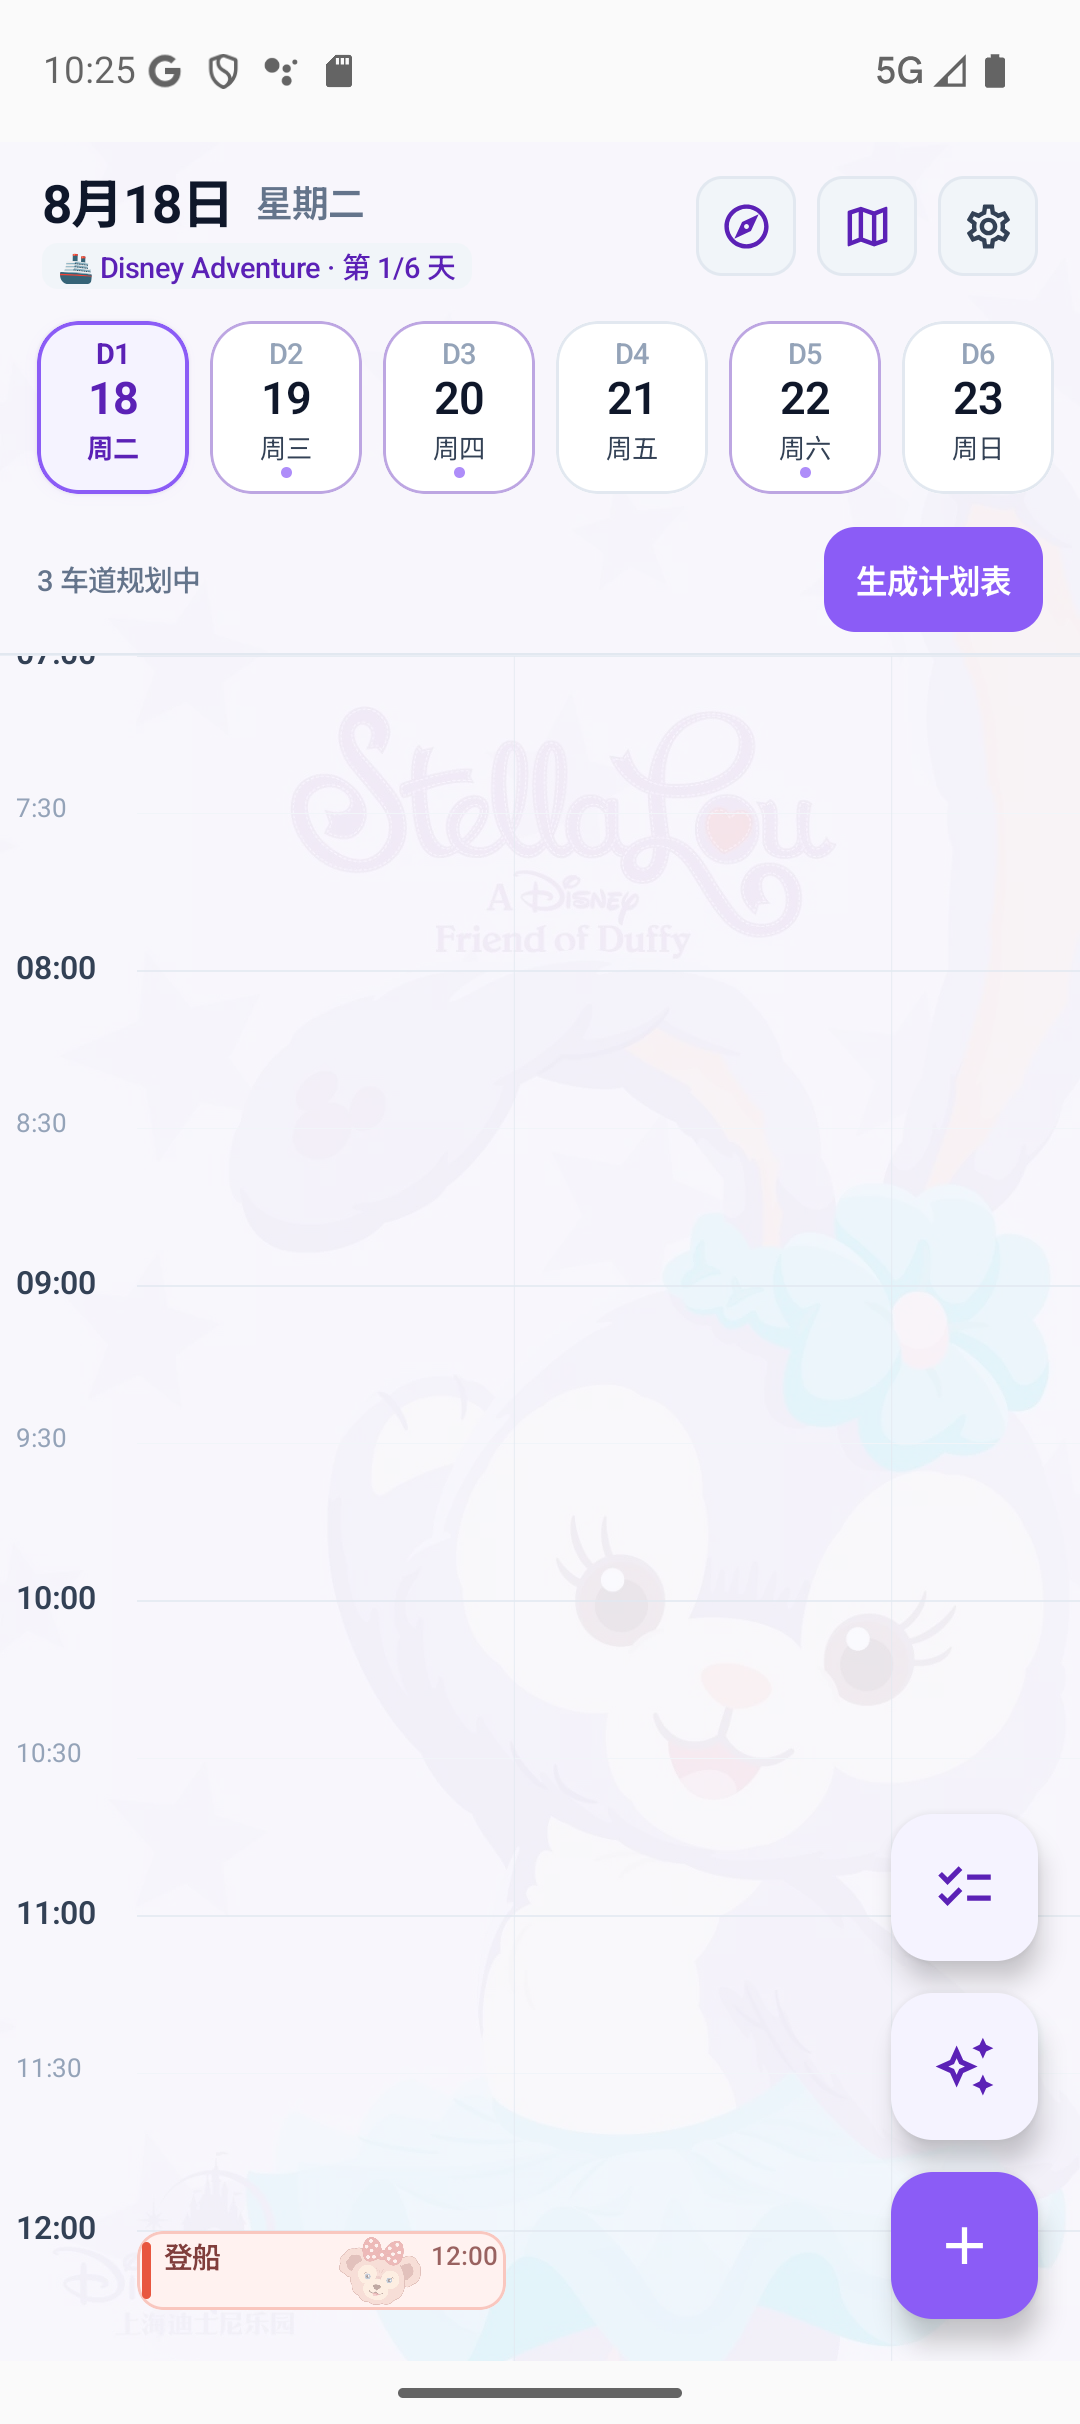
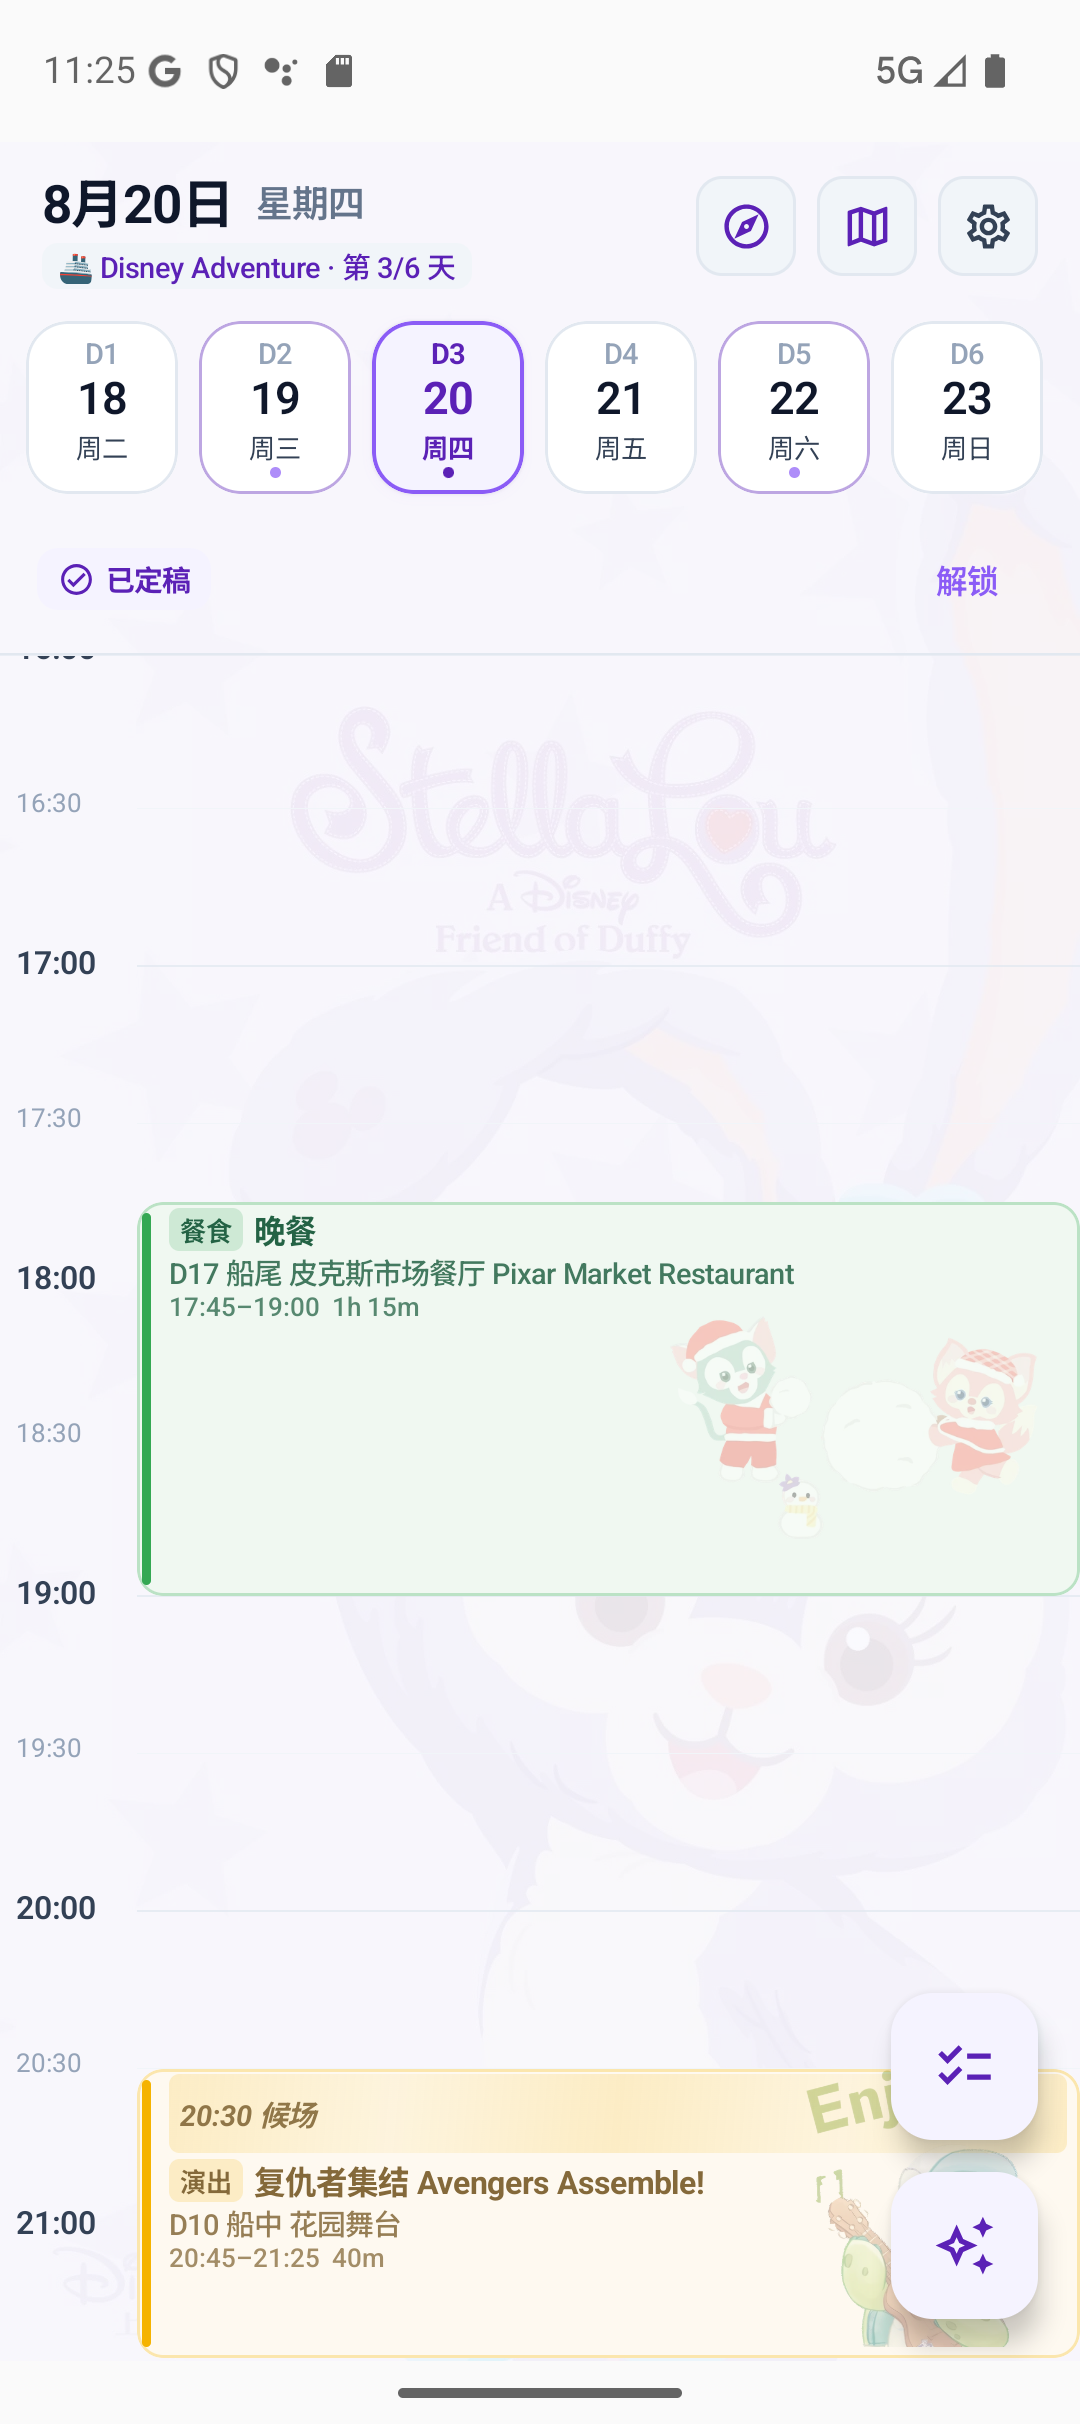
chore: bump version to 1.10.17 (43) and add verification screenshots

diff --git a/docs/superpowers/plans/2026-08-24-adaptive-watermark-opacity-v1.10.17.md b/docs/superpowers/plans/2026-08-24-adaptive-watermark-opacity-v1.10.17.md
@@ -25,14 +25,14 @@
 - Consumes: `isFinalized: Boolean`
 - Produces: `dollAlpha = if (isFinalized) 0.38f else 0.16f` passed to `Image(..., alpha = dollAlpha)`
 
-- [ ] **Step 1: Update `EventCard.kt`**
+- [x] **Step 1: Update `EventCard.kt`**
 Compute `val dollAlpha = if (isFinalized) 0.38f else 0.16f` and pass to `Image(..., alpha = dollAlpha)`.
 
-- [ ] **Step 2: Verify compilation and tests**
+- [x] **Step 2: Verify compilation and tests**
 Run: `.\gradlew.bat testDebugUnitTest`
 Expected: PASS
 
-- [ ] **Step 3: Commit changes**
+- [x] **Step 3: Commit changes**
 
 ```bash
 git add app/src/main/java/com/cruise/assistant/ui/timeline/EventCard.kt
@@ -47,16 +47,16 @@ git commit -m "style(ui): apply adaptive watermark opacity (0.38f finalized, 0.1
 - Modify: `app/build.gradle.kts`
 - Modify/Create: `人偶效果截图对比/`
 
-- [ ] **Step 1: Bump version in `app/build.gradle.kts`**
+- [x] **Step 1: Bump version in `app/build.gradle.kts`**
 Set `versionCode = 43`, `versionName = "1.10.17"`.
 
-- [ ] **Step 2: Build and install APK**
+- [x] **Step 2: Build and install APK**
 Run `assembleDebug` and install to running emulator.
 
-- [ ] **Step 3: Capture screenshots**
+- [x] **Step 3: Capture screenshots**
 Capture finalized 1-lane view and draft 3-lane view to verify readability.
 
-- [ ] **Step 4: Commit version bump and screenshots**
+- [x] **Step 4: Commit version bump and screenshots**
 
 ```bash
 git add app/build.gradle.kts 人偶效果截图对比/
